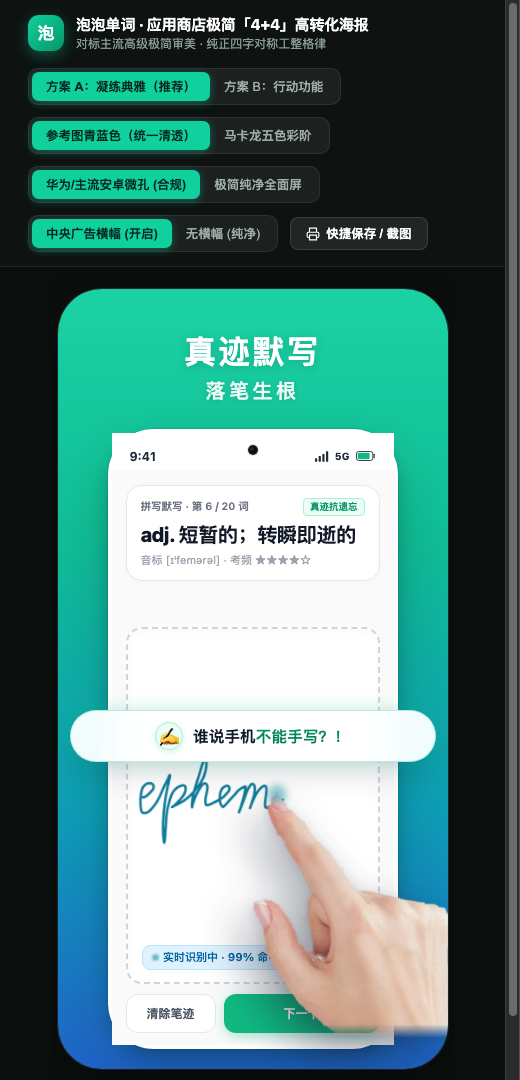
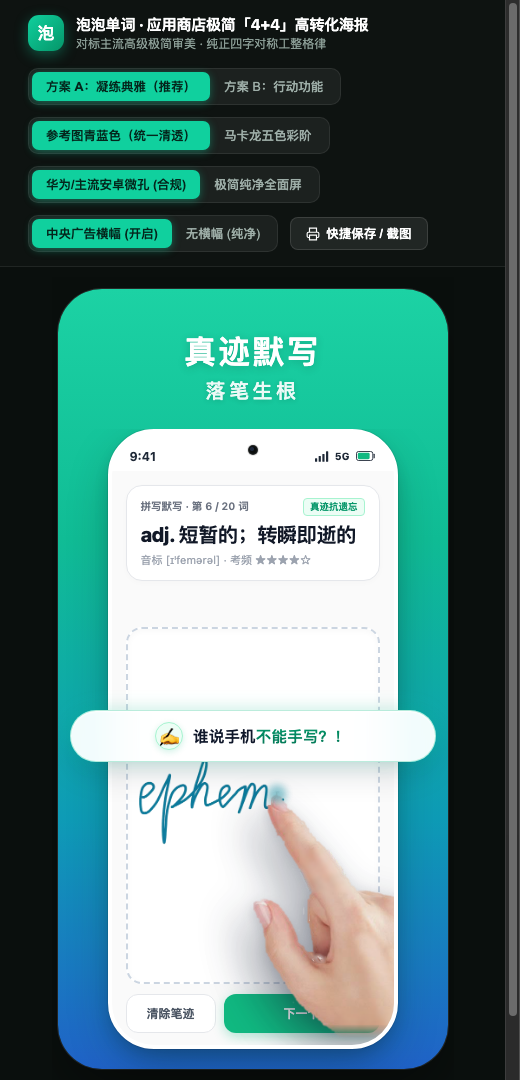
feat: redesign app store preview card 4 for sentence translation and voice quiz mode

diff --git a/design/ui/app_store_minimal_clean_preview.html b/design/ui/app_store_minimal_clean_preview.html
@@ -667,11 +667,7 @@
       display: block;
       pointer-events: none;
     }
-    /* 允许海报3的手机机身与展示台溢出 3D 悬浮人手 */
-    #card-3 .device-chassis,
-    #card-3 .poster-phone-stage {
-      overflow: visible !important;
-    }
+    /* 海报3机身统一遵循 device-chassis 规范，保持 overflow: hidden 裁切圆角 */
 
     /* 3D 屏幕上方真实人手：完全悬浮于手机屏幕与机身之上，食指尖精准正中最后一笔末端 (m 上扬末梢) */
     .floating-hand-3d {
@@ -705,74 +701,100 @@
       0%, 100% { transform: scale(0.85); opacity: 0.5; }
       50% { transform: scale(1.35); opacity: 0.95; }
     }
-    .live-dot {
-      width: 6.5px;
-      height: 6.5px;
-      border-radius: 50%;
-      background: #00869D;
-      display: inline-block;
-      box-shadow: 0 0 0 2.5px rgba(0, 134, 157, 0.25);
-      animation: liveBlink 1.4s infinite ease-in-out;
-    }
-    @keyframes liveBlink {
-      0%, 100% { opacity: 1; transform: scale(1); }
-      50% { opacity: 0.4; transform: scale(0.8); }
-    }
-    .ocr-pass-badge {
-      position: absolute;
-      bottom: 12px;
-      left: 14px; /* 移到左下角，与右下角的手指形成完美平衡，绝不遮挡 */
-      background: #E0F2FE;
-      color: #0369A1;
-      border: 1px solid #BAE6FD;
-      border-radius: 8px;
-      padding: 3.5px 9px;
-      font-size: 11px;
-      font-weight: 700;
-      display: flex;
-      align-items: center;
-      gap: 5px;
-      z-index: 30;
-    }
 
-    /* ----- 卡片 4: 语音答题 / 开口成诵 ----- */
-    .asr-stage {
+    /* ----- 卡片 4: 例句英译汉 · 语音答题模式 ----- */
+    .sentence-trans-stage {
       flex: 1;
-      padding: 16px;
+      padding: 12px 14px 14px 14px;
       background: #FFFFFF;
       display: flex;
       flex-direction: column;
       justify-content: space-between;
     }
-    .sound-wave-box {
+    .sentence-quiz-card {
+      background: #F9FAFB;
+      border: 1px solid #E5E7EB;
+      border-radius: 14px;
+      padding: 10px 12px 8px 12px;
+      box-shadow: 0 2px 5px rgba(0, 0, 0, 0.02);
+    }
+    .sentence-en-text {
+      font-size: 13.5px;
+      font-weight: 600;
+      color: #111827;
+      line-height: 1.36;
+      letter-spacing: -0.2px;
+      margin-top: 4px;
+    }
+    .sentence-en-text .highlight-word {
+      color: #059669;
+      font-weight: 800;
+      text-decoration: underline;
+      text-decoration-color: rgba(5, 150, 105, 0.35);
+      text-underline-offset: 3px;
+    }
+    .sentence-asr-result-card {
       background: #F0FDF4;
-      border: 1px solid #BBF7D0;
-      border-radius: 20px;
-      padding: 20px 16px;
-      display: flex;
-      flex-direction: column;
-      align-items: center;
-      gap: 14px;
+      border: 1.5px solid #A7F3D0;
+      border-radius: 16px;
+      padding: 12px 13px;
+      margin-top: 38px; /* 完美避开中央大横幅遮挡 */
+      box-shadow: 0 4px 16px rgba(5, 150, 105, 0.08);
+      position: relative;
     }
-    .wave-bars {
-      display: flex;
-      align-items: center;
-      gap: 4px;
-      height: 48px;
+    .user-speech-text {
+      font-size: 13px;
+      font-weight: 700;
+      color: #064E3B;
+      line-height: 1.5;
+      letter-spacing: -0.1px;
+      margin-top: 7px;
     }
-    .wave-bar {
-      width: 4px;
-      background: #10D09E;
-      border-radius: 4px;
+    .asr-live-dot {
+      width: 6.5px;
+      height: 6.5px;
+      border-radius: 50%;
+      background: #059669;
+      display: inline-block;
+      box-shadow: 0 0 0 2.5px rgba(5, 150, 105, 0.25);
+      animation: asrPulse 1.4s infinite ease-in-out;
+    }
+    @keyframes asrPulse {
+      0%, 100% { transform: scale(0.9); opacity: 0.6; }
+      50% { transform: scale(1.25); opacity: 1; }
     }
     .score-badge {
       background: #059669;
       color: #FFFFFF;
-      font-size: 13px;
+      font-size: 10px;
       font-weight: 800;
-      padding: 4px 14px;
+      padding: 2.5px 8px;
       border-radius: 100px;
-      box-shadow: 0 4px 12px rgba(5, 150, 105, 0.35);
+      box-shadow: 0 2px 6px rgba(5, 150, 105, 0.3);
+    }
+    .wave-bars {
+      display: flex;
+      align-items: center;
+      gap: 3.5px;
+      height: 24px;
+    }
+    .wave-bar {
+      width: 3.5px;
+      background: #10B981;
+      border-radius: 3px;
+    }
+    .speak-action-btn {
+      background: #111827;
+      color: #FFFFFF;
+      border-radius: 14px;
+      padding: 11px 14px;
+      display: flex;
+      align-items: center;
+      justify-content: center;
+      gap: 7px;
+      font-size: 12.5px;
+      font-weight: 700;
+      box-shadow: 0 4px 14px rgba(0, 0, 0, 0.2);
     }
 
     /* ----- 卡片 5: 词单导入 / 随心定制 ----- */
@@ -1146,7 +1168,7 @@
               </div>
             </div>
 
-            <div class="screen-body" style="overflow: visible; border-radius: 40px;">
+            <div class="screen-body">
               <div class="write-stage">
                 <div class="write-prompt-card">
                   <div style="display: flex; justify-content: space-between; align-items: center;">
@@ -1168,11 +1190,6 @@
                     </div>
                   </div>
 
-                  <!-- 实时笔迹追踪识别徽章 -->
-                  <div class="ocr-pass-badge">
-                    <span class="live-dot"></span>
-                    <span>实时识别中 · 99% 命中</span>
-                  </div>
                 </div>
 
                 <!-- 浮起工具栏（被屏幕上方的真实人手自然遮挡） -->
@@ -1213,36 +1230,65 @@
             </div>
 
             <div class="screen-body">
-              <div class="asr-stage">
+              <div class="sentence-trans-stage">
                 <div>
-                  <div style="font-size: 11px; color: #059669; font-weight: 700; text-transform: uppercase;">原声跟读 · ASR 声学识别</div>
-                  <div style="font-size: 24px; font-weight: 800; color: #111827; margin-top: 6px;">resilience</div>
-                  <div style="font-size: 13px; color: #4B5563; margin-top: 4px;">/rɪˈzɪliəns/ · n. 恢复力；弹韧性</div>
-                </div>
-
-                <!-- 电影例句原声 -->
-                <div style="background: #F9FAFB; border: 1px solid #E5E7EB; border-radius: 14px; padding: 12px;">
-                  <div style="font-size: 10px; color: #9CA3AF; font-weight: 600; margin-bottom: 4px;">🎬 经典影视原声例句</div>
-                  <div style="font-size: 12.5px; color: #1F2937; line-height: 1.4;">"True <b style="color: #059669;">resilience</b> is not about never falling, but rising every time."</div>
-                </div>
-
-                <!-- 声波动画与打分 -->
-                <div class="sound-wave-box">
-                  <div class="score-badge">口语评测得分 98 · 极纯正</div>
-                  <div class="wave-bars">
-                    <div class="wave-bar" style="height: 16px;"></div>
-                    <div class="wave-bar" style="height: 32px;"></div>
-                    <div class="wave-bar" style="height: 44px; background: #059669;"></div>
-                    <div class="wave-bar" style="height: 28px;"></div>
-                    <div class="wave-bar" style="height: 48px; background: #059669;"></div>
-                    <div class="wave-bar" style="height: 20px;"></div>
-                    <div class="wave-bar" style="height: 36px;"></div>
+                  <div style="display: flex; justify-content: space-between; align-items: center;">
+                    <span style="font-size: 11px; color: #059669; font-weight: 700; background: #ECFDF5; border: 1px solid #A7F3D0; padding: 2px 8px; border-radius: 6px;">例句英译汉 · 语境口试</span>
+                    <span style="font-size: 10.5px; color: #6B7280; font-weight: 600;">第 8 / 20 句</span>
                   </div>
-                  <div style="font-size: 11px; color: #065F46; font-weight: 600;">开口即识别 · 告别哑巴背词</div>
+                  <div style="font-size: 11.5px; color: #6B7280; margin-top: 6px;">看英文例句 · 语音说出中文意思</div>
                 </div>
 
-                <div style="background: #111827; color: #FFFFFF; border-radius: 14px; padding: 12px; text-align: center; font-size: 13px; font-weight: 700;">
-                  按住说话答题
+                <!-- 题目：经典英文例句 -->
+                <div class="sentence-quiz-card">
+                  <div style="display: flex; justify-content: space-between; align-items: center; margin-bottom: 6px;">
+                    <span style="font-size: 10px; color: #9CA3AF; font-weight: 700; text-transform: uppercase; letter-spacing: 0.5px;">English Sentence</span>
+                    <div style="display: flex; align-items: center; gap: 4px; color: #059669; font-size: 10.5px; font-weight: 600;">
+                      <svg width="13" height="13" viewBox="0 0 24 24" fill="currentColor"><path d="M3 9v6h4l5 5V4L7 9H3zm13.5 3c0-1.77-1.02-3.29-2.5-4.03v8.05c1.48-.73 2.5-2.25 2.5-4.02zM14 3.23v2.06c2.89.86 5 3.54 5 6.71s-2.11 5.85-5 6.71v2.06c4.01-.91 7-4.49 7-8.77s-2.99-7.86-7-8.77z"/></svg>
+                      <span>标准美音</span>
+                    </div>
+                  </div>
+                  <div class="sentence-en-text">
+                    "True <span class="highlight-word">resilience</span> is not about never falling, but rising every time."
+                  </div>
+                  <div style="margin-top: 8px; font-size: 10.5px; color: #9CA3AF; border-top: 1px dashed #E5E7EB; padding-top: 6px; display: flex; justify-content: space-between; align-items: center;">
+                    <span>📖 权威真题例句</span>
+                    <span>真题考频 ★★★★☆</span>
+                  </div>
+                </div>
+
+                <!-- 语音作答与识别出的中文翻译结果 -->
+                <div class="sentence-asr-result-card">
+                  <div style="display: flex; justify-content: space-between; align-items: center;">
+                    <div style="display: flex; align-items: center; gap: 5px;">
+                      <span class="asr-live-dot"></span>
+                      <span style="font-size: 10.5px; color: #059669; font-weight: 700;">实时识别 · 你的口译：</span>
+                    </div>
+                    <span class="score-badge">👏 哇，太准确了！</span>
+                  </div>
+
+                  <div class="user-speech-text">
+                    “真正的韧性不是从不跌倒，而是每次都能重新站起来。”
+                  </div>
+
+                  <div style="display: flex; align-items: center; justify-content: space-between; margin-top: 8px; padding-top: 7px; border-top: 1px dashed #A7F3D0;">
+                    <div class="wave-bars">
+                      <div class="wave-bar" style="height: 10px;"></div>
+                      <div class="wave-bar" style="height: 18px;"></div>
+                      <div class="wave-bar" style="height: 24px; background: #059669;"></div>
+                      <div class="wave-bar" style="height: 14px;"></div>
+                      <div class="wave-bar" style="height: 24px; background: #059669;"></div>
+                      <div class="wave-bar" style="height: 12px;"></div>
+                      <div class="wave-bar" style="height: 18px;"></div>
+                    </div>
+                    <span style="font-size: 11px; color: #047857; font-weight: 800; letter-spacing: -0.2px; white-space: nowrap;">✨ 哇，你的翻译真的是太准确了！</span>
+                  </div>
+                </div>
+
+                <!-- 底部操作按钮：按住说中文 -->
+                <div class="speak-action-btn">
+                  <svg width="15" height="15" viewBox="0 0 24 24" fill="currentColor"><path d="M12 14c1.66 0 3-1.34 3-3V5c0-1.66-1.34-3-3-3S9 3.34 9 5v6c0 1.66 1.34 3 3 3z"/><path d="M17 11c0 2.76-2.24 5-5 5s-5-2.24-5-5H5c0 3.53 2.61 6.43 6 6.92V21h2v-3.08c3.39-.49 6-3.39 6-6.92h-2z"/></svg>
+                  <span>按住说中文（松开即可判题）</span>
                 </div>
               </div>
             </div>
@@ -1337,7 +1383,7 @@
         p1Title: '泡泡星云', p1Sub: '过目成星',
         p2Title: '科学复习', p2Sub: '告别遗忘',
         p3Title: '提笔默写', p3Sub: '加深记忆',
-        p4Title: '原声跟读', p4Sub: '地道开口',
+        p4Title: '例句译说', p4Sub: '开口即答',
         p5Title: '自主题库', p5Sub: '一键导入'
       }
     };
